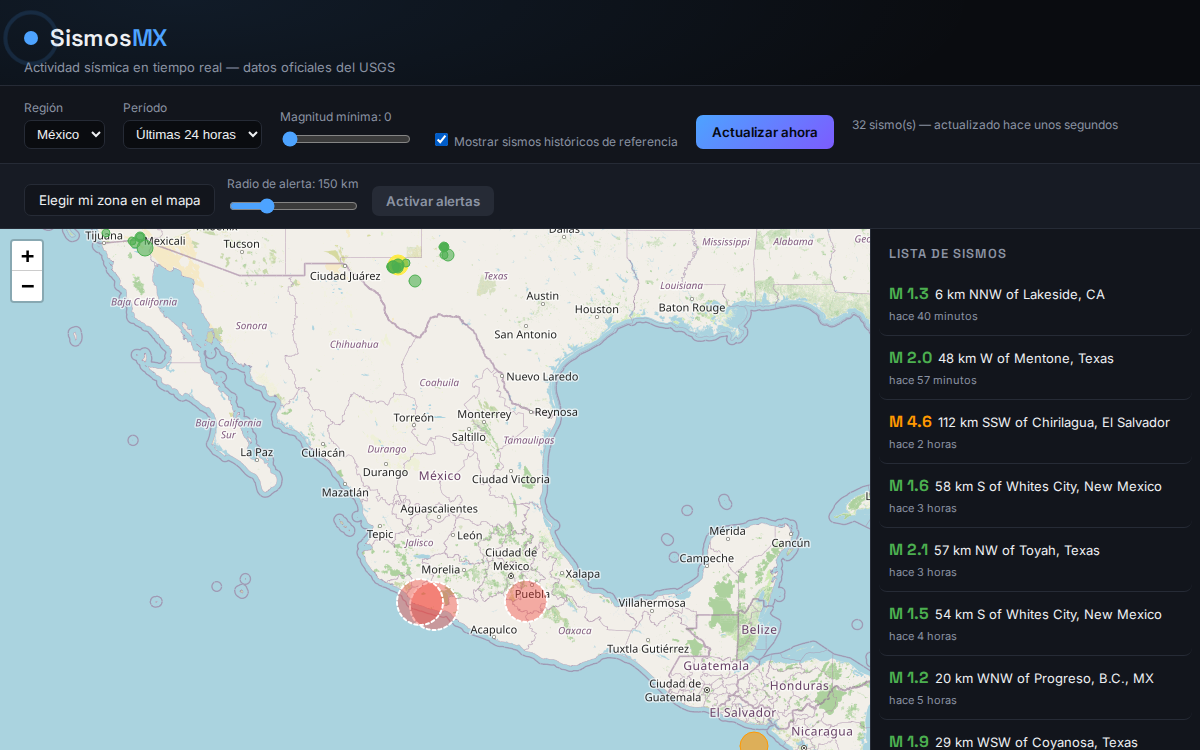
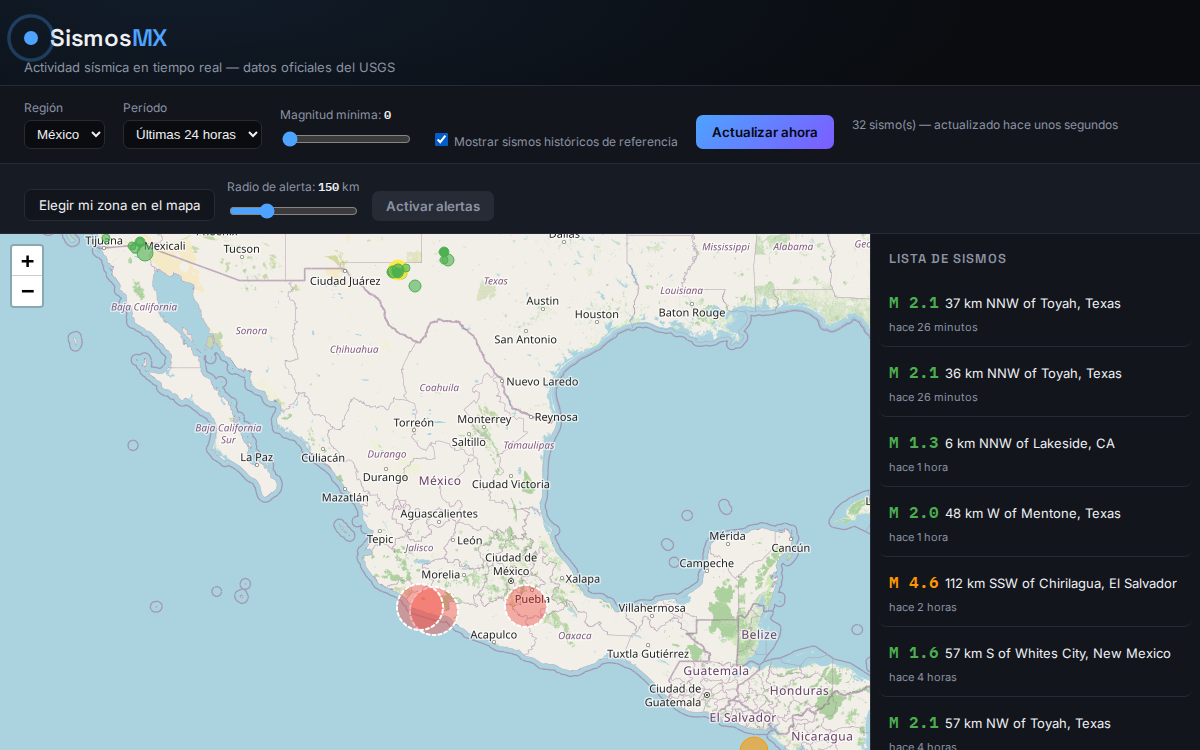
Give each project its own typographic identity: mixed display/mono/serif pairings instead of the same fonts everywhere

diff --git a/css/style.css b/css/style.css
@@ -11,6 +11,7 @@
   --good: #2fbf71;
   --font-display: "Space Grotesk", -apple-system, sans-serif;
   --font-body: "Inter", -apple-system, BlinkMacSystemFont, "Segoe UI", Roboto, sans-serif;
+  --font-mono: "IBM Plex Mono", "SF Mono", Menlo, monospace;
   --ease: cubic-bezier(0.16, 1, 0.3, 1);
 }
 
@@ -199,6 +200,17 @@ input[type="range"] {
   accent-color: var(--accent);
 }
 
+#mag-value,
+#radius-value {
+  font-family: var(--font-mono);
+  color: var(--text);
+  font-weight: 600;
+}
+
+.mono {
+  font-family: var(--font-mono);
+}
+
 select {
   background: var(--bg);
   color: var(--text);
@@ -300,8 +312,8 @@ main {
 }
 
 .quake-mag {
-  font-family: var(--font-display);
-  font-weight: 700;
+  font-family: var(--font-mono);
+  font-weight: 600;
   margin-right: 6px;
 }
 

diff --git a/index.html b/index.html
@@ -10,7 +10,7 @@
     />
     <link rel="preconnect" href="https://fonts.googleapis.com" />
     <link rel="preconnect" href="https://fonts.gstatic.com" crossorigin />
-    <link href="https://fonts.googleapis.com/css2?family=Space+Grotesk:wght@500;600;700&family=Inter:wght@400;500;600&display=swap" rel="stylesheet" />
+    <link href="https://fonts.googleapis.com/css2?family=Space+Grotesk:wght@500;600;700&family=Inter:wght@400;500;600&family=IBM+Plex+Mono:wght@500;600&display=swap" rel="stylesheet" />
     <link rel="stylesheet" href="https://unpkg.com/leaflet@1.9.4/dist/leaflet.css" crossorigin="" />
     <link rel="stylesheet" href="css/style.css" />
   </head>

diff --git a/js/app.js b/js/app.js
@@ -127,7 +127,7 @@ function renderQuakes(features) {
       weight: 1,
     });
     marker.bindPopup(
-      `<strong>${formatMagnitude(mag)}</strong> — ${place}<br>${formatTimeAgo(time)}<br>Profundidad: ${depth?.toFixed(1) ?? "?"} km<br><a href="${url}" target="_blank" rel="noopener">Ver detalle en USGS</a>`
+      `<strong class="mono">${formatMagnitude(mag)}</strong> — ${place}<br>${formatTimeAgo(time)}<br>Profundidad: <span class="mono">${depth?.toFixed(1) ?? "?"} km</span><br><a href="${url}" target="_blank" rel="noopener">Ver detalle en USGS</a>`
     );
     marker.addTo(quakeLayer);
 
